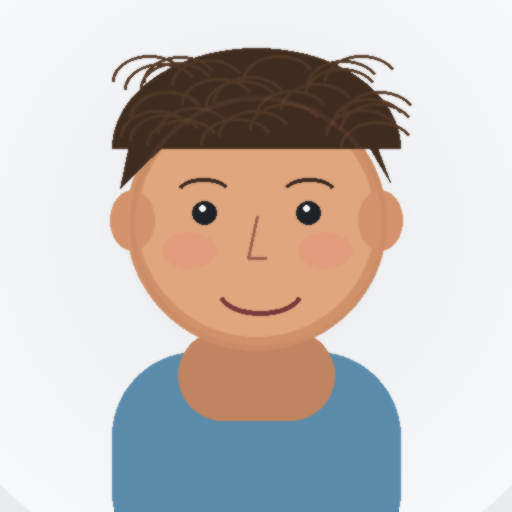
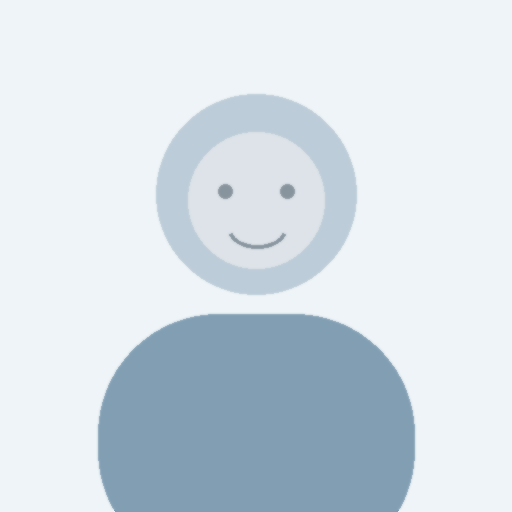
Add files via upload

diff --git a/app.js b/app.js
@@ -13,7 +13,7 @@ function toggleFaculty(){facultyOpen=!facultyOpen;const panel=$("facultyPanel");
 function reveal4B(){const val=$("revealCode").value.trim().toUpperCase();if(val==="IPASS")setPhase("4b");else $("revealMsg").textContent="Incorrect code."}
 function render(){ $("app").innerHTML = screen==="login" ? renderLogin() : renderChart(); const panel=$("facultyPanel"); if(panel && facultyOpen) panel.classList.add("open");}
 function renderLogin(){return `<main class="login"><section class="login-card"><div class="login-hero"><div class="brand-login"><div class="logo">M</div><div><h1>Meridian EMR</h1><div>${esc(CASE.hospital)}</div></div></div><div class="tagline">${esc(CASE.tagline)}</div><p>A fictional pediatric electronic medical record for patient safety simulation.</p></div><div class="login-body"><h2>Hospital Medicine Patient List</h2><p class="muted">Select the active simulation patient. Other patients are placeholders for future cases.</p><div class="patient-list"><div class="patient-tile" onclick="routeToChart('1')"><div><strong>${esc(CASE.patient.name)}</strong><div class="muted">ED → Hospital Medicine · New admission</div></div><span class="pill yellow">Watcher</span></div>${CASE.inactivePatients.map(p=>`<div class="patient-tile disabled"><div><strong>${esc(p.name)}</strong><div class="muted">${esc(p.detail)}</div></div><span class="pill">Future case</span></div>`).join("")}</div></div></section></main>`}
-function renderChart(){const p=phase();return `<div class="app"><header class="topbar"><div class="brand" onclick="screen='login';history.replaceState(null,'','./');render()"><div class="brand-mark">M</div><div class="brand-title">Meridian EMR<small>${esc(CASE.hospital)}</small></div></div><div class="top-right"><div class="phase-buttons">${CASE.phases.map(x=>`<button class="${x.id===p.id?'active':''}" onclick="setPhase('${x.id}')">${esc(x.label)}</button>`).join("")}</div><button class="faculty-btn" onclick="toggleFaculty()">Faculty</button></div></header>${renderTabs(p)}${renderBanner(p)}<div class="layout"><aside>${renderChartReview(p)}${renderTimelineCard(p)}</aside><main><div class="main-title"><div><h2>${esc(p.title)}</h2><p>${esc(p.time)}</p></div></div><div class="prompt"><strong>Current time:</strong> Hospital Day ${esc(p.hospitalDay || "")} • ${esc(p.time)}</div><div class="card"><div class="card-head"><h3>${tabLabel(activeTab)}</h3></div><div class="card-body">${renderTab(p,activeTab)}</div></div></main><aside class="rightcol">${renderMessagesCard(p)}${renderRecentOrders(p)}</aside></div>${renderFaculty(p)}<footer class="footer">Meridian EMR v3.0 · Educational Use Only</footer></div>`}
+function renderChart(){const p=phase();return `<div class="app"><header class="topbar"><div class="brand" onclick="screen='login';history.replaceState(null,'','./');render()"><div class="brand-mark">M</div><div class="brand-title">Meridian EMR<small>${esc(CASE.hospital)}</small></div></div><div class="top-right"><div class="phase-buttons">${CASE.phases.map(x=>`<button class="${x.id===p.id?'active':''}" onclick="setPhase('${x.id}')">${esc(x.label)}</button>`).join("")}</div><button class="faculty-btn" onclick="toggleFaculty()">Faculty</button></div></header>${renderTabs(p)}${renderBanner(p)}<div class="layout"><aside>${renderChartReview(p)}${renderTimelineCard(p)}</aside><main><div class="card"><div class="card-head"><h3>${tabLabel(activeTab)}</h3></div><div class="card-body">${renderTab(p,activeTab)}</div></div></main><aside class="rightcol">${renderMessagesCard(p)}${renderRecentOrders(p)}</aside></div>${renderFaculty(p)}<footer class="footer">Meridian EMR v3.0 · Educational Use Only</footer></div>`}
 function renderTabs(p){return `<nav class="folder-tabs">${["summary","notes","results","flowsheet","mar","orders","imaging","growth","messages"].map(t=>`<button class="${activeTab===t?'active':''}" onclick="setTab('${t}')">${tabLabel(t)}${tabCount(p,t)}</button>`).join("")}</nav>`}
 function renderBanner(p){return `<section class="patient-banner"><div class="patient-left">${patientPhoto()}<div class="patient-name"><h2>${esc(CASE.patient.name)}</h2><div class="demo-grid"><b>${esc(CASE.patient.age)}</b><span>${esc(CASE.patient.sex)}</span><b>MRN</b><span>${esc(CASE.patient.mrn)}</span><b>DOB</b><span>${esc(CASE.patient.dob)}</span><b>Room</b><span>${esc(p.room)}</span><b>Attending</b><span>${esc(CASE.patient.attending)}</span><b>PCP</b><span>${esc(CASE.patient.pcp)}</span></div></div></div><div class="banner-card"><div class="banner-top">${bannerItem("Location",p.location)}${bannerItem("Weight",`${esc(p.weight)}<br><small>${esc(p.weightDetail||"")}</small>`)}${bannerItem("Allergies",CASE.patient.allergy)}${bannerItem("Isolation","None")}${bannerItem("Code Status",CASE.patient.code)}${bannerItem("Primary Team",p.team)}${bannerItem("Diet",CASE.patient.diet)}${bannerItem("Access",CASE.patient.access)}</div><div class="vital-strip">${Object.entries(p.vitals).map(([k,v])=>`<div class="vital"><span>${esc(k)}</span><strong>${esc(v)}</strong></div>`).join("")}</div></div></section>`}
 function bannerItem(k,v){return `<div class="banner-item"><span>${esc(k)}</span><strong>${v}</strong></div>`}
@@ -159,7 +159,44 @@ function renderResultTrends(p){if(!p.resultTrends)return"";return `<div class="r
 function renderImaging(p){return p.imaging.map(i=>`<div class="note-card"><div class="note-summary"><div class="note-icon">▣</div><div><div class="note-title">${esc(i[0])}<span class="note-tag">Radiology</span></div><div class="note-preview">${esc(i[1]).slice(0,140)}</div></div><div class="note-meta">Final</div><div class="note-meta"></div></div><div class="note-detail">${esc(i[1])}</div></div>`).join("")}
 
 function renderGrowth(p){let pts=p.growth.map((g,i)=>[g[0],parseFloat(String(g[1]).replace(/[^\d.]/g,""))||0]);return `<div class="growth-wrap"><div class="growth-chart"><svg viewBox="0 0 520 300" style="width:100%;height:300px"><line class="growth-axis" x1="55" y1="250" x2="490" y2="250"/><line class="growth-axis" x1="55" y1="30" x2="55" y2="250"/><path class="growth-line" d="M70 215 C160 190,230 172,330 150 C390 135,440 125,480 115"/><text class="growth-label" x="20" y="38">kg</text><text class="growth-label" x="440" y="278">Age / date</text>${pts.map((pt,i)=>{let x=75+i*95;let y=250-(pt[1]/32)*210;let current=String(pt[0]).toLowerCase().includes("today");return `<circle class="${current?'growth-dot-current':'growth-dot'}" cx="${x}" cy="${y}" r="${current?7:5}"/><text class="growth-label" x="${x}" y="${y-10}" text-anchor="middle">${esc(pt[1])}</text><text class="growth-label" x="${x}" y="270" text-anchor="middle">${esc(pt[0])}</text>`}).join("")}</svg></div><div>${table(["Date / age","Weight"],p.growth)}</div></div>`}
-function renderFlowsheet(p, includeGraphs){let times=p.flowsheet.times, rows=p.flowsheet.rows;let tableHtml=`<div class="flow-wrap"><table class="flowsheet"><thead><tr><th>Row</th>${times.map(t=>`<th>${esc(t)}</th>`).join("")}</tr></thead><tbody>${rows.map(r=>`<tr><td>${esc(r[0])}</td>${r.slice(1).map(v=>`<td class="${cellClass(r[0],v)}">${esc(v)}</td>`).join("")}</tr>`).join("")}</tbody></table></div>`;return tableHtml+(includeGraphs?`<div class="card" style="margin-top:14px"><div class="card-head"><h3>Trend Graphs</h3></div><div class="card-body">${renderTrends(p.flowsheet)}</div></div>`:"")}
+
+function flowGroups(rows){
+  const groups = [
+    ["Vitals", ["Temperature","Heart Rate","Respiratory Rate","Blood Pressure","SpO₂","Cap refill"]],
+    ["Pain", ["Pain","FLACC"]],
+    ["Activity / Neuro", ["Mental status","Activity","Weight bearing"]],
+    ["Meals / Snacks", ["PO intake"]],
+    ["Intake", ["Intake","Total In"]],
+    ["Output", ["Urine output"]],
+    ["I/O Totals", ["I/O Net","Cumulative Net"]]
+  ];
+  const used = new Set();
+  const out = groups.map(([name,names])=>{
+    const matched = rows.filter(r=>names.includes(r[0]));
+    matched.forEach(r=>used.add(r[0]));
+    return [name, matched];
+  }).filter(g=>g[1].length);
+  const other = rows.filter(r=>!used.has(r[0]));
+  if(other.length) out.push(["Other", other]);
+  return out;
+}
+function renderFlowsheet(p, includeGraphs){
+  const times = p.flowsheet.times;
+  const groups = flowGroups(p.flowsheet.rows);
+  const gridCols = times.length + 1;
+  const tableHtml = `<div class="flow-epic"><div class="flow-grid" style="--flowcols:${gridCols}">
+    <div class="flow-cell flow-corner">Time:</div>
+    ${times.map(t=>`<div class="flow-cell flow-time">${esc(t)}</div>`).join("")}
+    ${groups.map(([group,rows])=>`
+      <div class="flow-section">▾ ${esc(group)}</div>
+      ${rows.map(r=>`
+        <div class="flow-cell flow-row-name">${esc(r[0])}</div>
+        ${r.slice(1).map(v=>`<div class="flow-cell ${cellClass(r[0],v)}">${esc(v)}</div>`).join("")}
+      `).join("")}
+    `).join("")}
+  </div></div>`;
+  return tableHtml + (includeGraphs ? `<div class="card" style="margin-top:14px"><div class="card-head"><h3>Trend Graphs</h3></div><div class="card-body">${renderTrends(p.flowsheet)}</div></div>` : "");
+}
 function cellClass(row,v){let s=String(v).toLowerCase();let n=parseFloat(v);if(row==="Heart Rate"&&n>=180)return"crit";if(row==="Heart Rate"&&n>=170)return"abn";if(row==="Temperature"&&n>=40)return"crit";if(row==="Temperature"&&n>=39.5)return"abn";if(row==="Respiratory Rate"&&n>=40)return"abn";if(row==="SpO₂"&&n<=92)return"crit";if(s.includes("mottled")||s.includes("difficult")||s.includes("none")||s.includes("weak")||s.includes("5 sec"))return"crit";if(s.includes("low")||s.includes("minimal")||s.includes("cool")||s.includes("4 sec")||s.includes("1+"))return"abn";return""}
 function renderTrends(flow){const numericRows=flow.rows.filter(r=>r.slice(1).every(v=>!isNaN(parseFloat(v)))).slice(0,4);return `<div class="trend-grid">${numericRows.map((r,i)=>renderTrend(r[0],r.slice(1).map(Number),i)).join("")}</div>`}
 function renderTrend(name,vals,idx){const min=Math.min(...vals),max=Math.max(...vals),w=300,h=125,pad=28;const pts=vals.map((v,i)=>{const x=pad+i*((w-pad*2)/(vals.length-1||1));const y=h-pad-(max===min?.5:(v-min)/(max-min))*(h-pad*2);return [x,y,v]});const path=pts.map((p,i)=>(i?"L":"M")+p[0].toFixed(1)+" "+p[1].toFixed(1)).join(" ");const color=idx<3?"red":"blue";return `<div class="trend"><div class="trend-top"><span>${esc(name)}</span><small>latest ${esc(vals[vals.length-1])}</small></div><svg class="chart" viewBox="0 0 ${w} ${h}"><line class="axis" x1="${pad}" y1="${h-pad}" x2="${w-pad}" y2="${h-pad}"/><line class="axis" x1="${pad}" y1="${pad}" x2="${pad}" y2="${h-pad}"/><path class="line-${color}" d="${path}"/>${pts.map((p,i)=>`<circle class="dot-${color}" cx="${p[0]}" cy="${p[1]}" r="4"/><text class="lab" x="${p[0]}" y="${p[1]-8}" text-anchor="middle">${esc(p[2])}</text><text class="xlab" x="${p[0]}" y="${h-8}" text-anchor="middle">${i+1}</text>`).join("")}</svg></div>`}

diff --git a/style.css b/style.css
@@ -123,3 +123,65 @@
 .banner-item{min-height:50px;padding:7px 10px}
 .vital-strip{padding:5px 10px}
 .photo{background:#e8eef3}
+
+
+/* v4.4 remove phase-title chrome */
+.main-title{display:none}
+.prompt{display:none}
+
+/* v4.4 Epic-like flowsheet */
+.flow-epic{
+  overflow:auto;
+  border:1px solid #b7cbd9;
+  border-radius:8px;
+  background:#fff;
+}
+.flow-grid{
+  display:grid;
+  grid-template-columns:220px repeat(calc(var(--flowcols) - 1), minmax(120px, 1fr));
+  min-width:850px;
+  font-size:13px;
+}
+.flow-cell{
+  min-height:26px;
+  padding:5px 8px;
+  border-right:1px solid #ccd8e3;
+  border-bottom:1px solid #e5edf3;
+  background:#fff;
+  text-align:center;
+}
+.flow-corner{
+  position:sticky;
+  left:0;
+  z-index:3;
+  background:#f1f8f6;
+  text-align:right;
+  font-weight:900;
+  color:#001f3f;
+}
+.flow-time{
+  background:#e5f3ef;
+  color:#001f3f;
+  font-weight:900;
+  text-align:center;
+}
+.flow-section{
+  grid-column:1 / -1;
+  background:#cde7ec;
+  color:#005f73;
+  font-weight:950;
+  padding:5px 8px;
+  border-bottom:1px solid #a8cbd3;
+  border-top:1px solid #a8cbd3;
+}
+.flow-row-name{
+  position:sticky;
+  left:0;
+  z-index:2;
+  background:#e9f1f7;
+  color:#0057a3;
+  font-weight:800;
+  text-align:left;
+}
+.flow-grid .abn{background:#fff4ed;color:#9a3412;font-weight:850}
+.flow-grid .crit{background:#fff1f0;color:#b42318;font-weight:950}

diff --git a/README.md b/README.md
@@ -1,4 +1,4 @@
-# Meridian EMR v4.3
+# Meridian EMR v4.4
 
 Upload these files to the root of the GitHub repository, replacing prior versions:
 
@@ -10,8 +10,10 @@ Upload these files to the root of the GitHub repository, replacing prior version
 - patient_photo.png
 
 Changes:
-- Results Review fixed to display one analyte per row with time columns, closer to Epic-style lab review.
-- Current chart review banner now emphasizes hospital day and time instead of room number.
-- Removed the “Hospital Course” label above the phase title.
-- Patient photo replaced with a cleaner neutral simulated portrait.
-- Patient banner spacing slightly tightened.
+- Removed visible phase titles such as “Admission reconciliation” and “Clinical reassessment.”
+- Removed the redundant current-time banner from the main content area.
+- Flowsheets redesigned to look more like an Epic-style flowsheet:
+  - time columns across the top
+  - grouped sections such as Vitals, Pain, Activity/Neuro, Meals/Snacks, Intake, Output
+  - row labels fixed on the left
+- Replaced patient photo with a neutral EMR-style placeholder to remove screenshot/crop artifacts.
